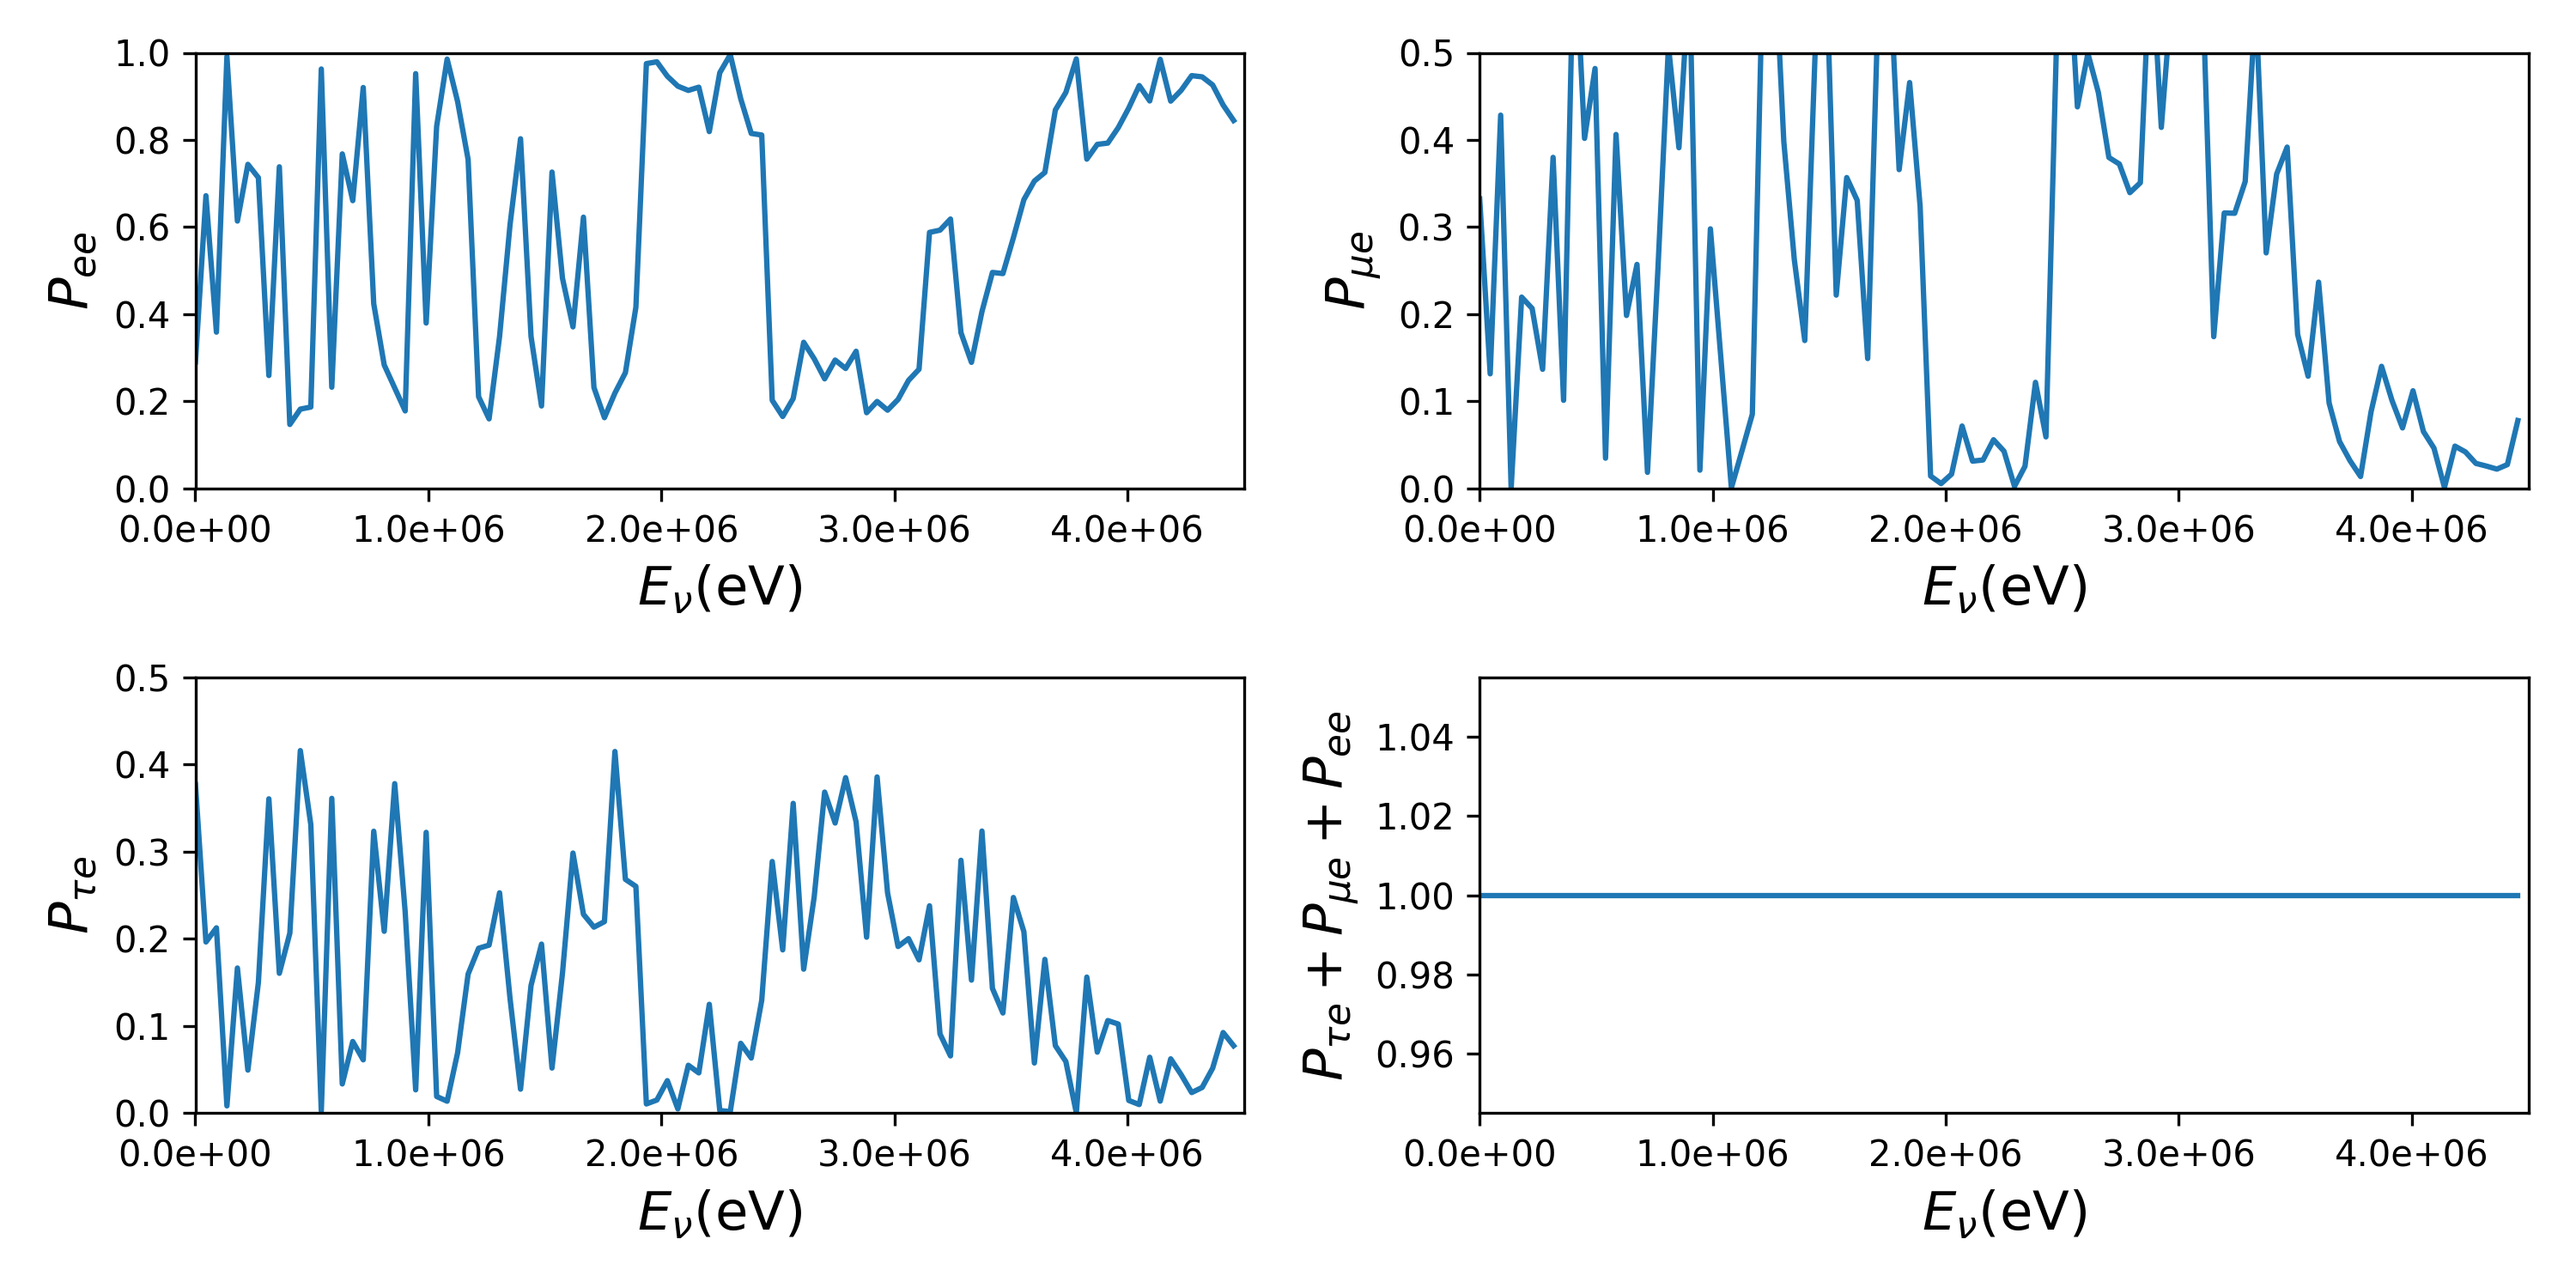
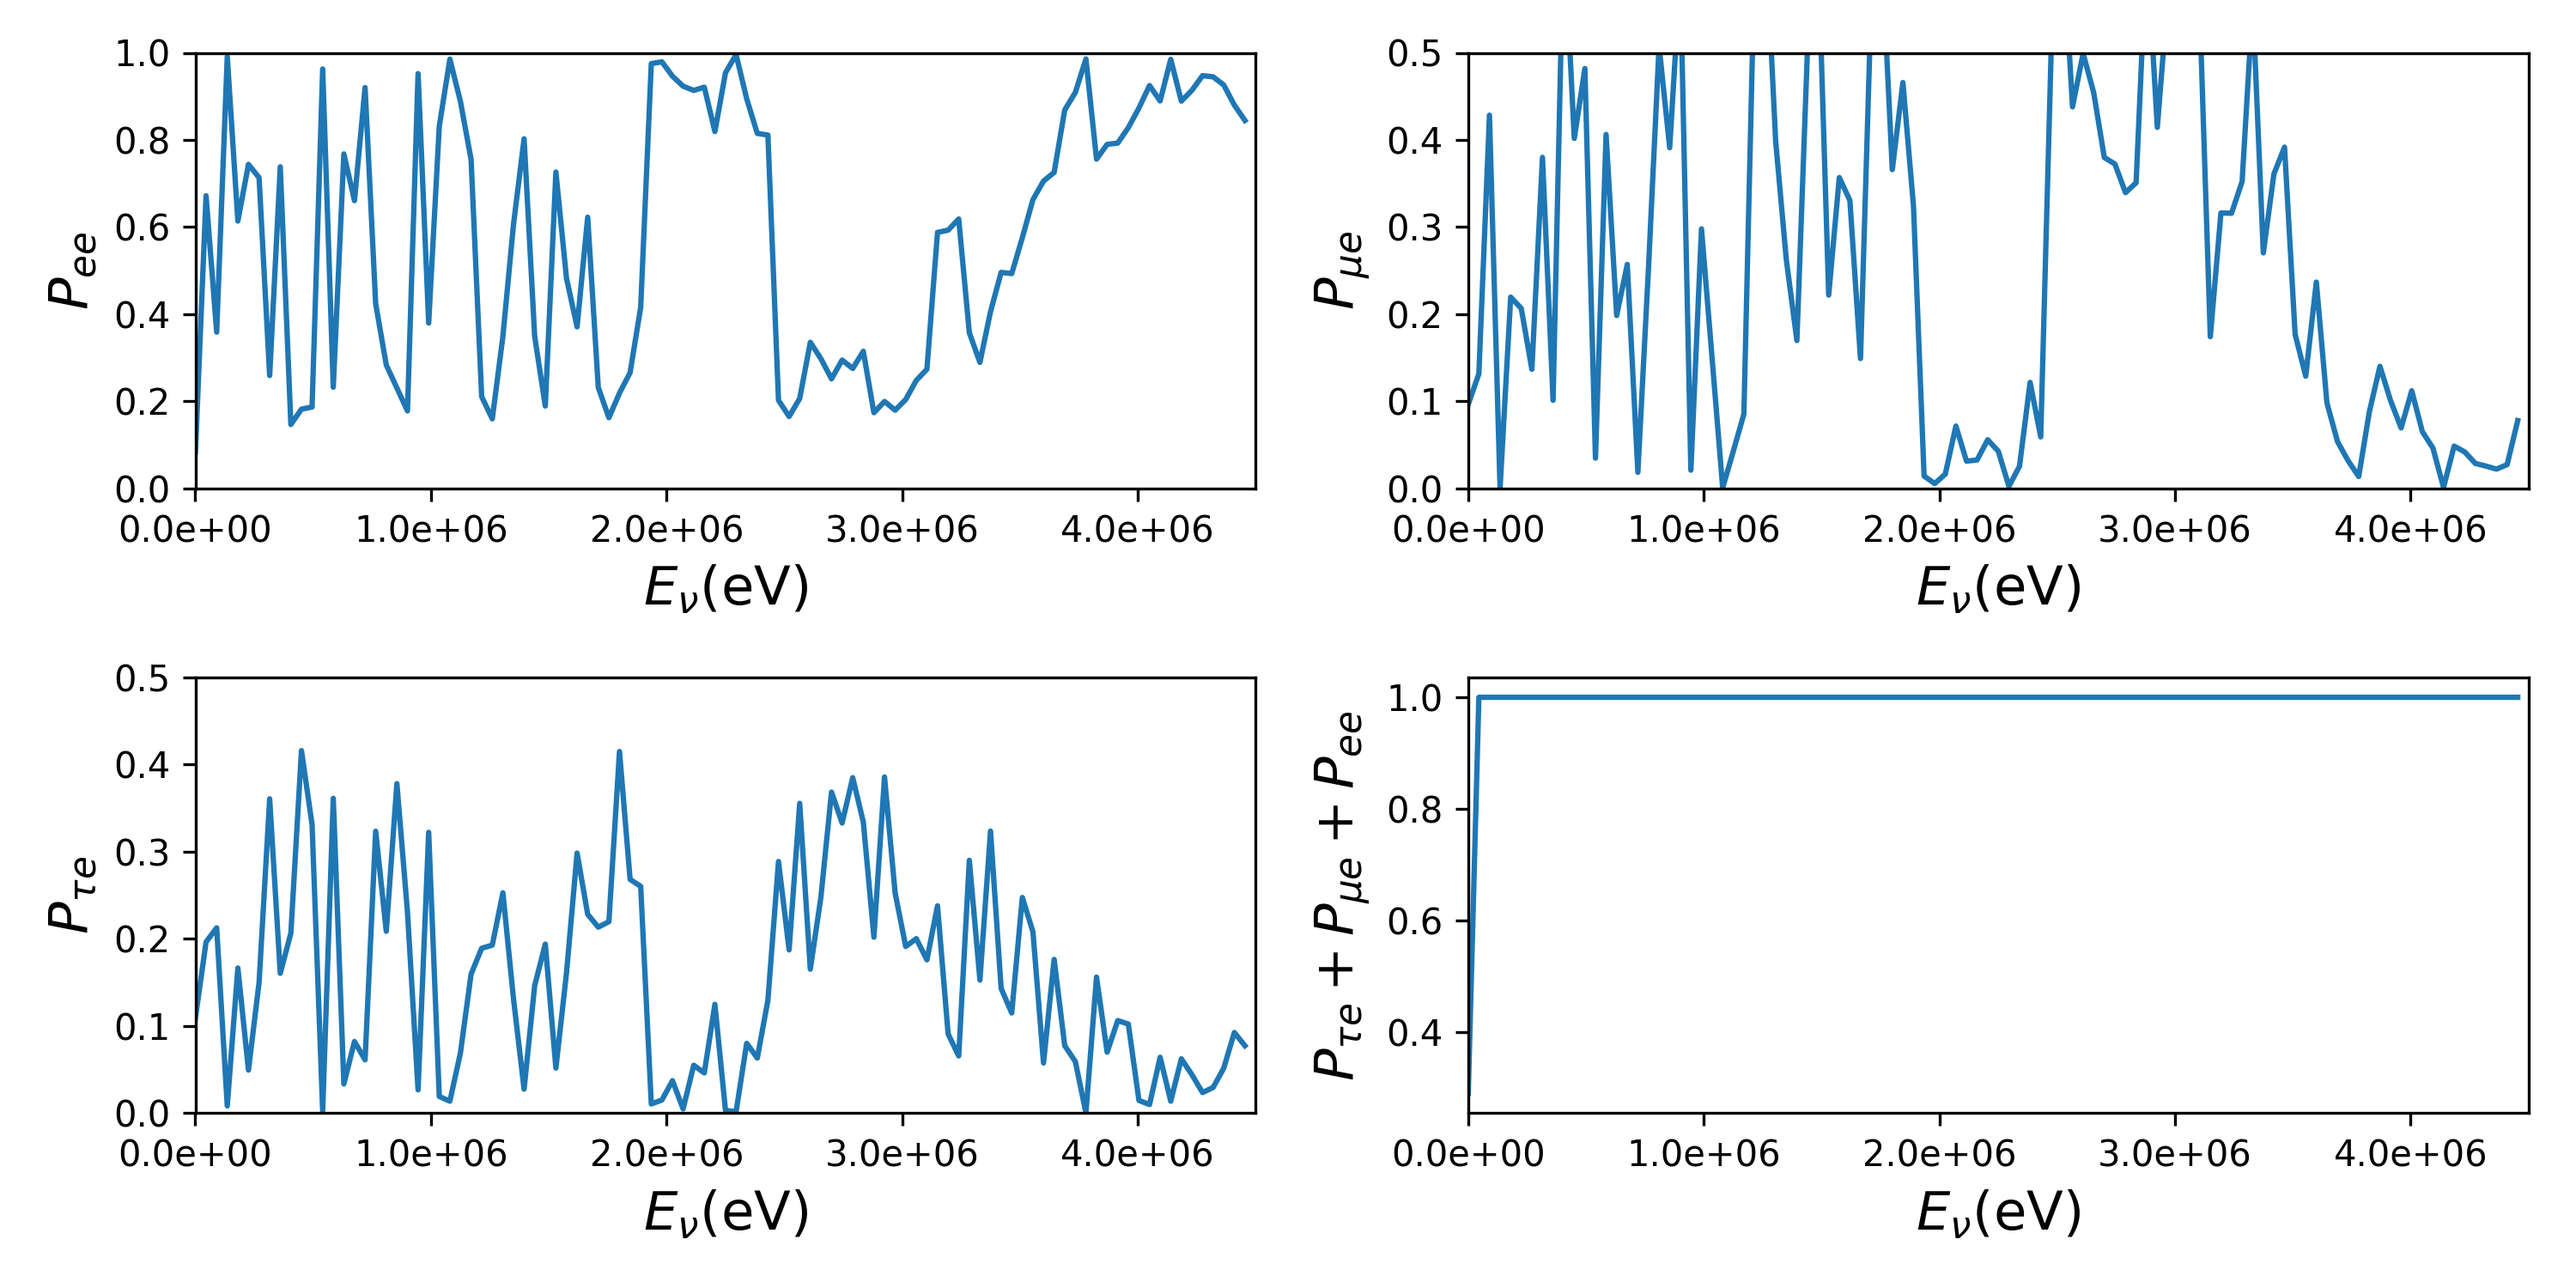
Fixing potential for real

diff --git a/uandino_v02/earth_simul.cpp b/uandino_v02/earth_simul.cpp
@@ -119,7 +119,7 @@ float get_r(float x, float y){
 
 
 float density_polynomials(float radius){
-    float x = radius/6371.;
+    float x = float(abs(radius))/6371.;
     //inner core
     if( radius<= 1221.5){
         return 13.0885-8.8381*x*x;}

diff --git a/uandino_v02/results/real_earth_diameter_test_100E_100MS_32ppn_3n_fixed.282748.clustermaster.uniandes.edu.co/plotTheThing.py b/uandino_v02/results/real_earth_diameter_test_100E_100MS_32ppn_3n_fixed.282748.clustermaster.uniandes.edu.co/plotTheThing.py
@@ -35,7 +35,7 @@ def normalize(data):
 	data[:,2]/=tot
 	data[:,3]/=tot
 p1=plot(probData)
-normalize(probData)
+#normalize(probData)
 p2=plot(probData)
 #plt.gcf()
 print type(p1)
